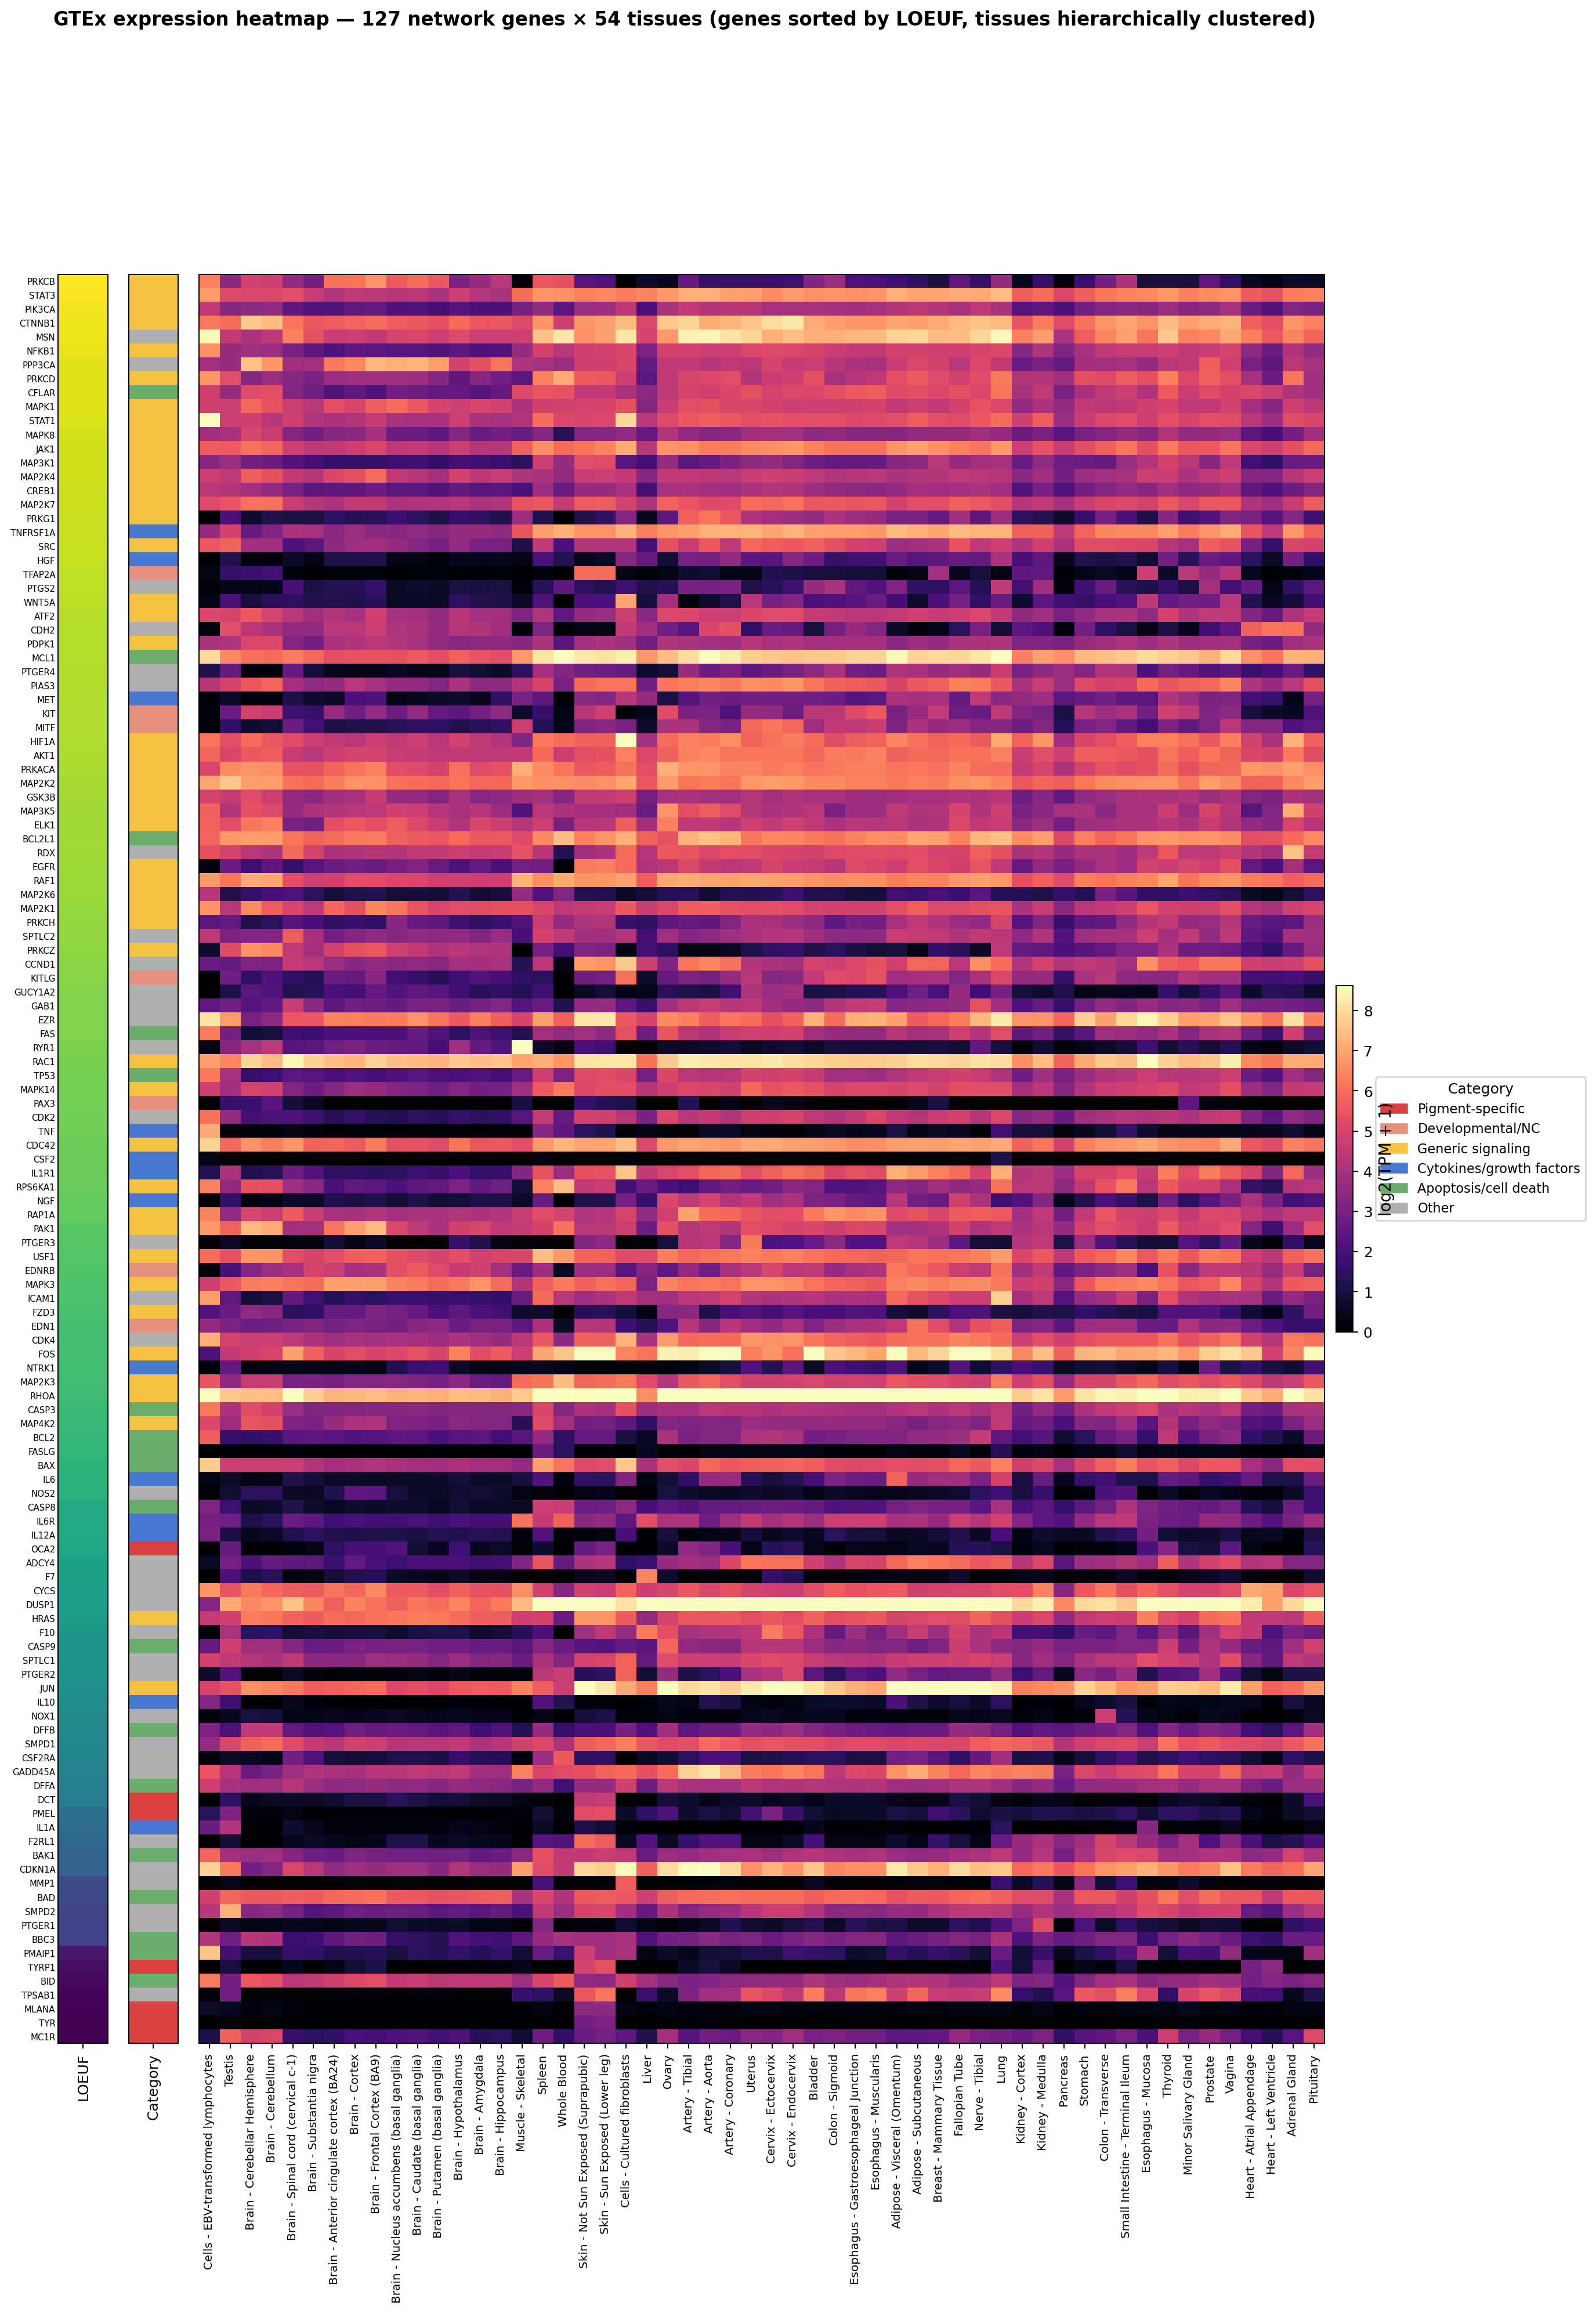
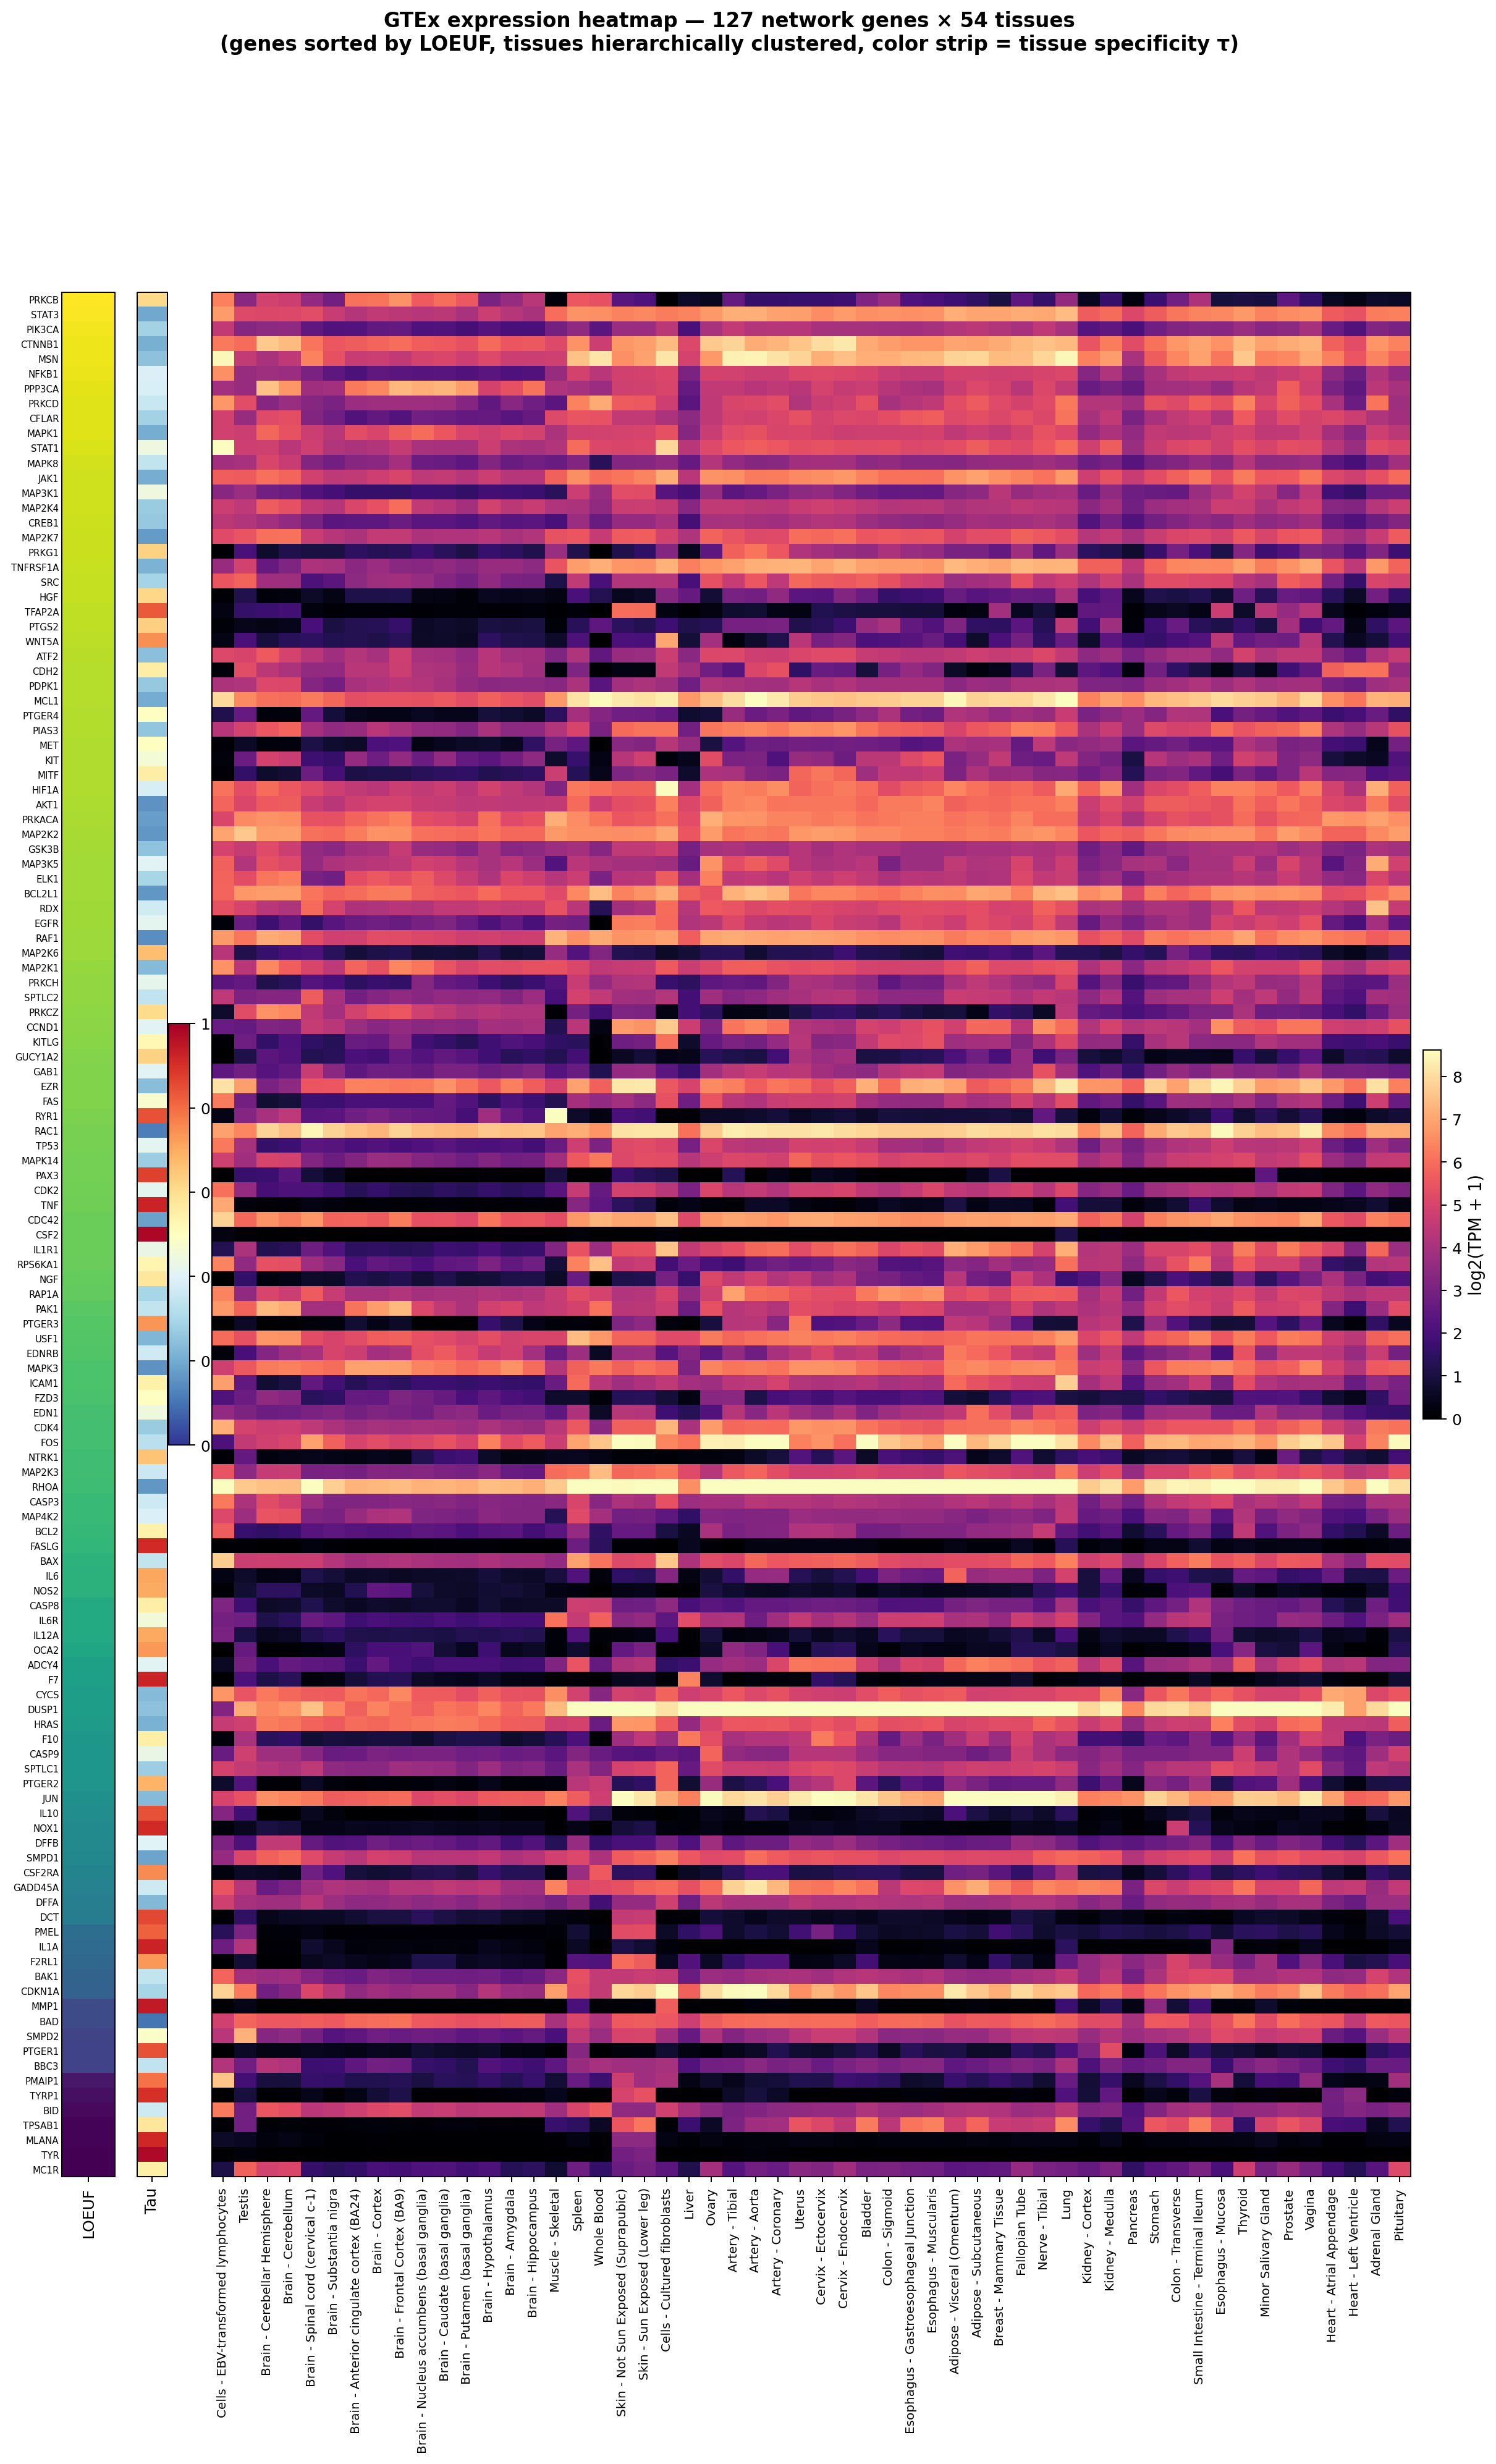
Replace functional category with tau gradient in phase1 heatmap
Modified figure_phase1_gtex_heatmap to display tissue specificity (tau)
as a continuous color gradient (RdYlBu_r, 0=housekeeping to 1=tissue-specific)
instead of categorical color coding. The heatmap layout remains unchanged:
LOEUF constraint column (left) + tau gradient column (middle) + expression
heatmap with hierarchical tissue clustering (right).

diff --git a/analysis/phase1_gtex_extras.py b/analysis/phase1_gtex_extras.py
@@ -204,7 +204,7 @@ tissue_order = leaves_list(tissue_link)
 gene_order_idx = df['LOEUF'].sort_values().index
 gene_order = df.loc[gene_order_idx, 'gene'].values
 loeuf_order = df.loc[gene_order_idx, 'LOEUF'].values
-cat_order = df.loc[gene_order_idx, 'functional_category'].values
+tau_order = df.loc[gene_order_idx, 'tau'].values
 
 heatmap_data = expr_df.loc[gene_order].iloc[:, tissue_order]
 heatmap_log = np.log2(heatmap_data.values + 1)
@@ -222,15 +222,16 @@ ax_loeuf.set_yticks(range(len(gene_order)))
 ax_loeuf.set_yticklabels(gene_order, fontsize=6)
 ax_loeuf.tick_params(axis='y', length=0, pad=2)
 
-# Functional category column
-ax_cat = fig.add_subplot(gs[0, 1])
-cat_to_idx = {c: i for i, c in enumerate(CATEGORY_COLORS)}
-cat_codes = np.array([cat_to_idx.get(c, -1) for c in cat_order]).reshape(-1, 1)
-from matplotlib.colors import ListedColormap
-cat_cmap = ListedColormap(['#888888'] + list(CATEGORY_COLORS.values()))
-ax_cat.imshow(cat_codes + 1, aspect='auto', cmap=cat_cmap, vmin=0, vmax=len(CATEGORY_COLORS))
-ax_cat.set_xticks([0]); ax_cat.set_xticklabels(['Category'], rotation=90, fontsize=10)
-ax_cat.set_yticks([])
+# Tau (tissue specificity) column
+ax_tau = fig.add_subplot(gs[0, 1])
+im_tau = ax_tau.imshow(tau_order.reshape(-1, 1), aspect='auto', cmap='RdYlBu_r',
+                        vmin=0, vmax=1)
+ax_tau.set_xticks([0]); ax_tau.set_xticklabels(['Tau'], rotation=90, fontsize=10)
+ax_tau.set_yticks([])
+
+# Colorbar for tau
+cb_tau = fig.colorbar(im_tau, ax=ax_tau, fraction=0.4, pad=0.02)
+cb_tau.set_label('Tissue specificity (τ)', fontsize=9)
 
 # Heatmap
 ax_h = fig.add_subplot(gs[0, 2])
@@ -243,16 +244,10 @@ ax_h.set_yticks([])
 cb = fig.colorbar(im, ax=ax_h, fraction=0.015, pad=0.01)
 cb.set_label('log2(TPM + 1)', fontsize=11)
 
-# Legend for categories
-import matplotlib.patches as mpatches
-patches = [mpatches.Patch(color=col, label=cat)
-           for cat, col in CATEGORY_COLORS.items()]
-ax_h.legend(handles=patches, loc='upper left', bbox_to_anchor=(1.04, 0.55),
-            fontsize=9, title='Category', title_fontsize=10, framealpha=0.9)
-
 fig.suptitle(
     f'GTEx expression heatmap — {len(gene_order)} network genes × '
-    f'{len(TISSUES)} tissues (genes sorted by LOEUF, tissues hierarchically clustered)',
+    f'{len(TISSUES)} tissues\n'
+    f'(genes sorted by LOEUF, tissues hierarchically clustered, color strip = tissue specificity τ)',
     fontsize=13, fontweight='bold', y=0.995)
 
 for ext in ('png', 'pdf'):